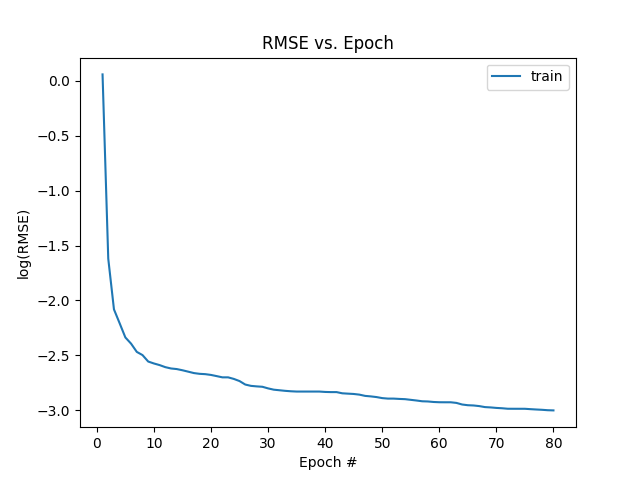
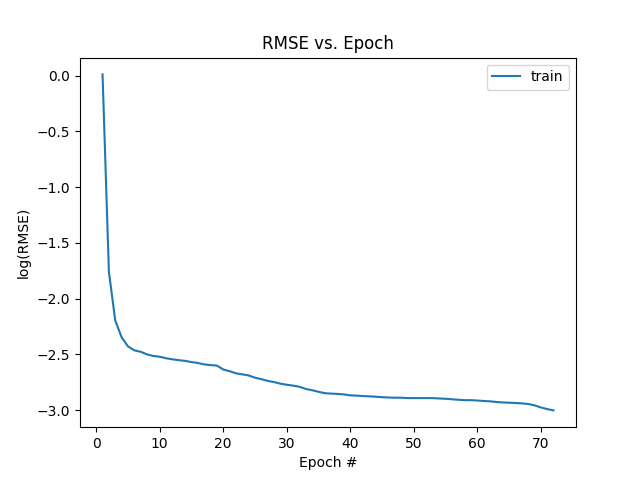
Refactored model forward/data reshuffling, speeding up model training

diff --git a/nn_torch_bfgs.py b/nn_torch_bfgs.py
@@ -4,7 +4,7 @@ import torch
 import torch.nn as nn
 from torch.nn import init
 from torch.nn import Tanh, Softplus,LeakyReLU
-from torch.nn.init import xavier_uniform_
+from torch.nn.init import xavier_uniform_,kaiming_uniform_
 import copy
 from collections import OrderedDict
 import time
@@ -28,16 +28,16 @@ class Dense(nn.Linear):
         super(Dense,self).__init__(input_size,output_size,bias)
 
     def reset_parameters(self):
-        # init.constant_(self.weight,100)
-        # init.constant_(self.bias,100)
+        # init.constant_(self.weight,1)
+        init.constant_(self.bias,0)
 
-        xavier_uniform_(self.weight,gain=5.0/3)
-        if self.bias is not None:
-            fan_in,_ =init._calculate_fan_in_and_fan_out(self.weight)
-            bound=1/np.sqrt(fan_in)
-            init.uniform_(self.bias,-bound,bound)
+        # xavier_uniform_(self.weight,gain=5.0/3)
+        kaiming_uniform_(self.weight,nonlinearity='tanh')
+        # if self.bias is not None:
+            # fan_in,_ =init._calculate_fan_in_and_fan_out(self.weight)
+            # bound=1/np.sqrt(fan_in)
+            # init.uniform_(self.bias,-bound,bound)
         # super(Dense,self).reset_parameters()
-        # init.constant_(self.bias,0)
 
     def forward(self,inputs):
         neuron_output=super(Dense,self).forward(inputs)
@@ -107,9 +107,16 @@ class FullNN(nn.Module):
         for index,element in enumerate(self.unique_atoms):
             model_inputs=data[element][0]
             contribution_index=data[element][1]
+            l=len(contribution_index)
+            dim=l/self.batch_size
+            contribution_index=torch.tensor(contribution_index)
+            contribution_index=contribution_index.reshape(self.batch_size,dim)
             atomwise_outputs=self.elementwise_models[index].forward(model_inputs)
-            for cindex,atom_output in enumerate(atomwise_outputs):
-                energy_pred[contribution_index[cindex]]+=atom_output
+            atomwise_outputs=atomwise_outputs.reshape(self.batch_size,dim)
+            element_pred=torch.sum(atomwise_outputs,1).reshape(self.batch_size,1)
+            energy_pred+=element_pred
+            # for cindex,atom_output in enumerate(atomwise_outputs):
+                # energy_pred[contribution_index[cindex]]+=atom_output
         return energy_pred
 
 def target_scaling(data):
@@ -144,7 +151,7 @@ def train_model(model,unique_atoms,dataset_size,criterion,optimizer,atoms_datalo
 
     epoch=0
     # for epoch in range(num_epochs):
-    while best_loss>=2e-3:
+    while best_loss>=1e-3:
         log_epoch('{} Epoch {}/{}'.format(time.asctime(),epoch+1,num_epochs))
         log_epoch('-'*30)
 

diff --git a/main_bfgs.py b/main_bfgs.py
@@ -49,7 +49,7 @@ if validation_frac!=0:
 else:
     dataset_size=len(training_data)
     log('Training Data = %d'%dataset_size)
-    atoms_dataloader=DataLoader(training_data,batch_size,collate_fn=collate_amp,shuffle=True)
+    atoms_dataloader=DataLoader(training_data,batch_size,collate_fn=collate_amp,shuffle=False)
 
 model=FullNN(unique_atoms,batch_size)
 # if torch.cuda.device_count()>1:
@@ -61,7 +61,7 @@ criterion=nn.MSELoss()
 log('Loss Function: %s'%criterion)
 
 #Define the optimizer and implement any optimization settings
-optimizer_ft=optim.LBFGS(model.parameters(),1,max_iter=20)
+optimizer_ft=optim.LBFGS(model.parameters(),.8,max_iter=20)
 # optimizer_ft=FullBatchLBFGS(model.parameters(),lr=1,history_size=10,line_search='Wolfe')
 
 log('Optimizer Info:\n %s'%optimizer_ft)
@@ -107,7 +107,7 @@ def test_model(training_data):
     print RMSE
     fig=plt.figure(figsize=(7.,7.))
     ax=fig.add_subplot(111)
-    ax.plot(targets,scaled_pred,'bo',markersize=5)
+    ax.plot(targets,scaled_pred,'bo',markersize=3)
     ax.plot([data_min,data_max],[data_min,data_max],'r-',lw=0.3)
     ax.set_xlabel('ab initio energy, eV')
     ax.set_ylabel('PyTorch energy, eV')

diff --git a/nn_torch.py b/nn_torch.py
@@ -109,9 +109,16 @@ class FullNN(nn.Module):
         for index,element in enumerate(self.unique_atoms):
             model_inputs=data[element][0]
             contribution_index=data[element][1]
+            l=len(contribution_index)
+            dim=l/self.batch_size
+            contribution_index=torch.tensor(contribution_index)
+            contribution_index=contribution_index.reshape(self.batch_size,dim)
             atomwise_outputs=self.elementwise_models[index].forward(model_inputs)
-            for cindex,atom_output in enumerate(atomwise_outputs):
-                energy_pred[contribution_index[cindex]]+=atom_output
+            atomwise_outputs=atomwise_outputs.reshape(self.batch_size,dim)
+            element_pred=torch.sum(atomwise_outputs,1).reshape(self.batch_size,1)
+            energy_pred+=element_pred
+            # for cindex,atom_output in enumerate(atomwise_outputs):
+                # energy_pred[contribution_index[cindex]]+=atom_output
         return energy_pred
 
 def feature_scaling(data):

diff --git a/main.py b/main.py
@@ -60,8 +60,8 @@ criterion=nn.MSELoss()
 log('Loss Function: %s'%criterion)
 
 #Define the optimizer and implement any optimization settings
-# optimizer_ft=optim.SGD(model.parameters(),lr=.01,momentum=0)
-optimizer_ft=optim.Adam(model.parameters(),lr=.01)
+optimizer_ft=optim.SGD(model.parameters(),lr=.01,momentum=0)
+# optimizer_ft=optim.Adam(model.parameters(),lr=.01)
 
 log('Optimizer Info:\n %s'%optimizer_ft)
 
